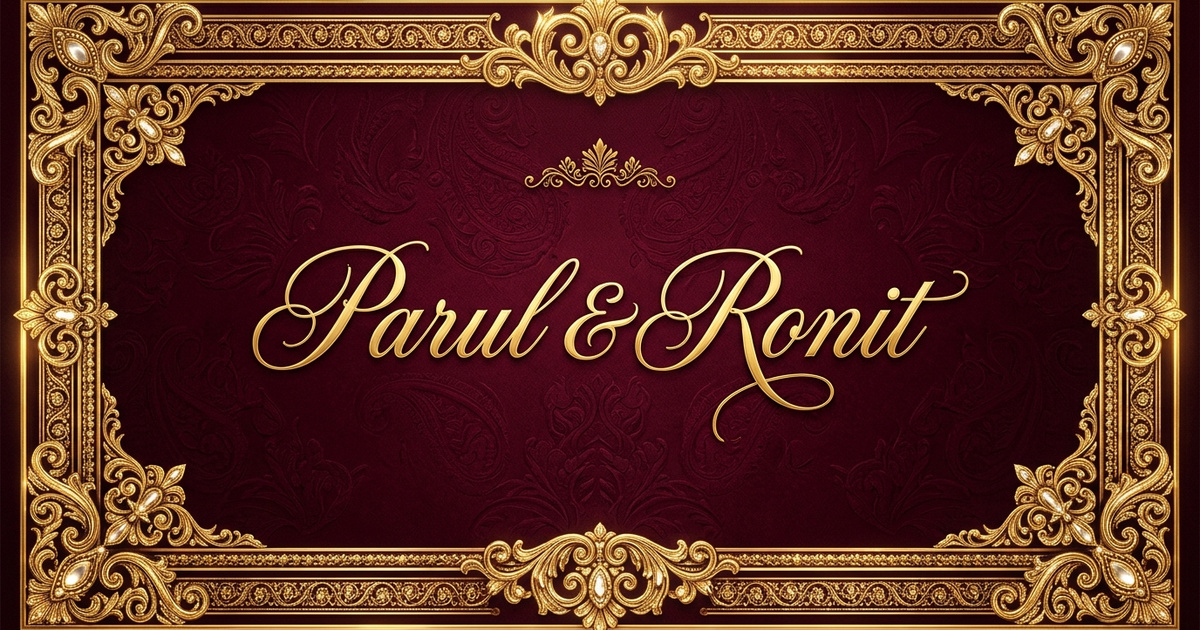
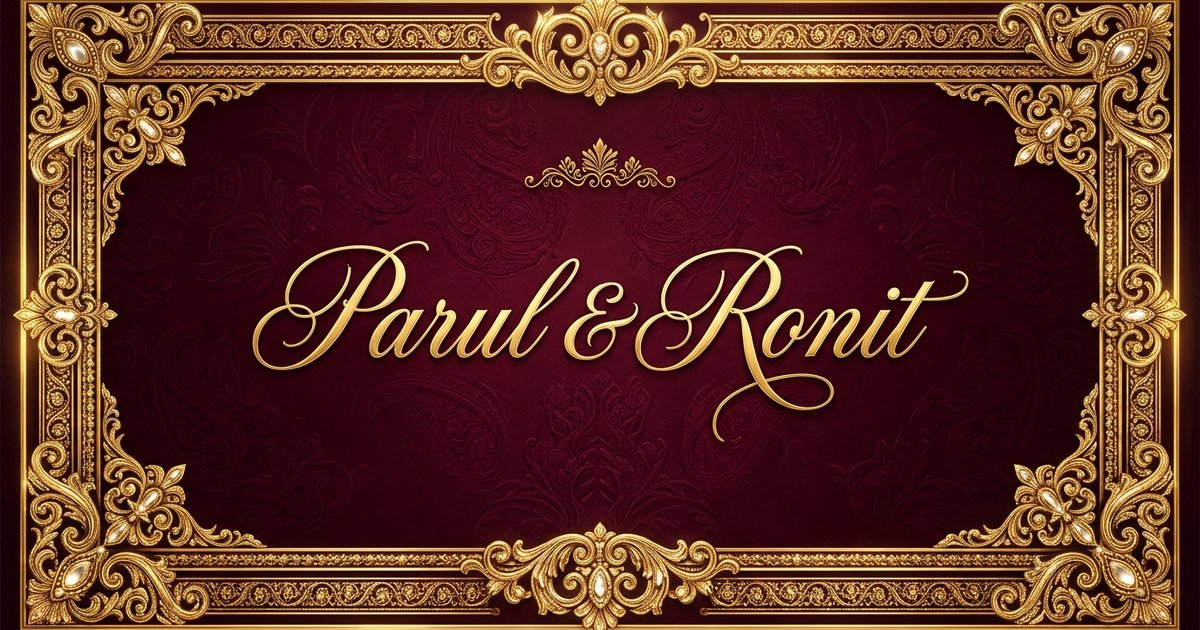
Fix WhatsApp thumbnail: use absolute live domain URL, optimize JPEG to 205KB (under 300KB limit), and add link rel=image_src

diff --git a/index.html b/index.html
@@ -4,32 +4,35 @@
     <meta charset="UTF-8" />
     <meta name="viewport" content="width=device-width, initial-scale=1.0, viewport-fit=cover" />
     <meta name="theme-color" content="#160408" />
+    <title>Parul & Ronit — Where Two Stories Become One</title>
+    <meta name="description" content="From shared smiles to a lifelong promise. Join Parul & Ronit as they celebrate love, family, and a heartfelt new beginning in Delhi." />
+
+    <!-- ▼▼ WhatsApp / Open Graph / Social Link Preview ▼▼ -->
+    <meta property="og:site_name" content="Parul & Ronit" />
+    <meta property="og:type" content="website" />
+    <meta property="og:url" content="https://parul-weds-ronit.inviteby.top/" />
+    <meta property="og:title" content="Parul & Ronit — Where Two Stories Become One" />
+    <meta property="og:description" content="From shared smiles to a lifelong promise. Join Parul & Ronit as they celebrate love, family, and a heartfelt new beginning in Delhi." />
+    <meta property="og:image" content="https://parul-weds-ronit.inviteby.top/editable/assets/og-image-whatsapp.jpg?v=2" />
+    <meta property="og:image:secure_url" content="https://parul-weds-ronit.inviteby.top/editable/assets/og-image-whatsapp.jpg?v=2" />
+    <meta property="og:image:type" content="image/jpeg" />
+    <meta property="og:image:width" content="1200" />
+    <meta property="og:image:height" content="630" />
+    <meta property="og:image:alt" content="Royal bordered wedding poster featuring Parul & Ronit in elegant gold calligraphy on rich burgundy velvet" />
+    <link rel="image_src" href="https://parul-weds-ronit.inviteby.top/editable/assets/og-image-whatsapp.jpg?v=2" />
+    <meta property="og:logo" content="https://parul-weds-ronit.inviteby.top/editable/assets/mandala.png" />
+    <meta name="twitter:card" content="summary_large_image" />
+    <meta name="twitter:title" content="Parul & Ronit — Where Two Stories Become One" />
+    <meta name="twitter:description" content="From shared smiles to a lifelong promise. Join Parul & Ronit as they celebrate love, family, and a heartfelt new beginning in Delhi." />
+    <meta name="twitter:image" content="https://parul-weds-ronit.inviteby.top/editable/assets/og-image-whatsapp.jpg?v=2" />
+    <!-- ▲▲ Social Link Preview ▲▲ -->
+
     <link rel="preconnect" href="https://fonts.googleapis.com" />
     <link rel="preconnect" href="https://fonts.gstatic.com" crossorigin />
     <link
       href="external/fonts.googleapis.com/css2-07365ea972.css"
       rel="stylesheet"
     />
-    <title>Parul & Ronit — Where Two Stories Become One</title>
-    <meta name="description" content="From shared smiles to a lifelong promise. Join Parul & Ronit as they celebrate love, family, and a heartfelt new beginning in Delhi." />
-    <!-- ▼▼ Couples Social Metadata / Open Graph ▼▼ -->
-    <meta property="og:site_name" content="Parul & Ronit" />
-    <meta property="og:type" content="website" />
-    <meta property="og:url" content="https://parul-ronit.netlify.app/" />
-    <meta property="og:title" content="Parul & Ronit — Where Two Stories Become One" />
-    <meta property="og:description" content="From shared smiles to a lifelong promise. Join Parul & Ronit as they celebrate love, family, and a heartfelt new beginning in Delhi." />
-    <meta property="og:image" content="./editable/assets/og-image.png" />
-    <meta property="og:image:secure_url" content="./editable/assets/og-image.png" />
-    <meta property="og:image:type" content="image/png" />
-    <meta property="og:image:width" content="1200" />
-    <meta property="og:image:height" content="630" />
-    <meta property="og:image:alt" content="Royal bordered wedding poster featuring Parul & Ronit in elegant gold calligraphy on rich burgundy velvet" />
-    <meta property="og:logo" content="https://parul-ronit.netlify.app/editable/assets/mandala.png" />
-    <meta name="twitter:card" content="summary_large_image" />
-    <meta name="twitter:title" content="Parul & Ronit — Where Two Stories Become One" />
-    <meta name="twitter:description" content="From shared smiles to a lifelong promise. Join Parul & Ronit as they celebrate love, family, and a heartfelt new beginning in Delhi." />
-    <meta name="twitter:image" content="./editable/assets/og-image.png" />
-    <!-- ▲▲ Couples Social Metadata ▲▲ -->
     <script src="./editable/wedding-data.js?v=5"></script>
     <link href="https://fonts.googleapis.com/css2?family=Rozha+One&family=Noto+Serif+Devanagari:wght@400;500;600;700&display=swap" rel="stylesheet" />
     <script type="module" crossorigin src="assets/index-OIk1B1Dk.js?v=5"></script>
